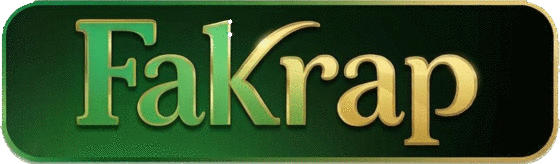
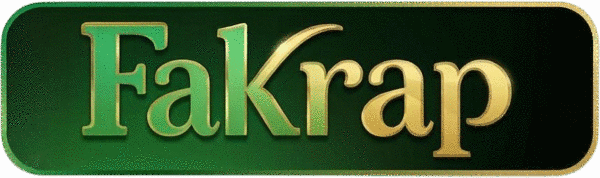
fix(brand): ровный логотип и возвращённое золотое CASINO на главной
- Новый логотип из присланного PNG с прозрачным фоном: аккуратные
  углы без обрезки, ничего не срезано по краям. Убрал border-radius,
  которым подгонял прошлую версию.
- На главной вместо «Домашнее казино» снова золотая надпись CASINO.
- Удалены стили .brand-tag, которые больше не нужны.

diff --git a/shared/casino.css b/shared/casino.css
@@ -124,8 +124,6 @@ button { font-family: inherit; cursor: pointer; }
   display: block;
   height: 42px;
   width: auto;
-  /* Скругляем по контуру плашки: так белые уголки исходника не видны. */
-  border-radius: 7.5px;
 }
 
 /* На узких экранах вместо широкого логотипа — золотая монета с «F». */
@@ -144,18 +142,6 @@ button { font-family: inherit; cursor: pointer; }
 }
 
 .brand-text { display: flex; flex-direction: column; gap: 2px; min-width: 0; }
-
-/* Подпись рядом с логотипом на главной — как вывеска над входом. */
-.brand-tag {
-  padding-left: 14px;
-  border-left: 1px solid rgba(233, 196, 106, .22);
-  font-size: 10px;
-  font-weight: 700;
-  letter-spacing: .26em;
-  text-transform: uppercase;
-  color: rgba(233, 196, 106, .5);
-  white-space: nowrap;
-}
 .brand-text span {
   font-family: Georgia, serif;
   font-size: clamp(15px, 1.5vw, 19px);
@@ -952,7 +938,6 @@ button.title-chip:hover { border-color: var(--gold); transform: translateY(-1px)
 
 @media (max-width: 900px) {
   .brand-text span { letter-spacing: .16em; font-size: 15px; }
-  .brand-tag { display: none; }
 }
 
 @media (max-width: 720px) {

diff --git a/games/blackjack/style.css b/games/blackjack/style.css
@@ -124,8 +124,6 @@ a.icon-btn:hover { color: #fff; border-color: rgba(233, 196, 106, .55); }
   display: block;
   height: 42px;
   width: auto;
-  /* Скругляем по контуру плашки: так белые уголки исходника не видны. */
-  border-radius: 7.5px;
 }
 
 /* На узких экранах вместо широкого логотипа — золотая монета с «F». */

diff --git a/index.html b/index.html
@@ -19,7 +19,9 @@
       <img class="brand-logo" src="shared/brand/fakrap.png" alt="Fakrap">
       <span class="brand-coin" aria-hidden="true">F</span>
     </a>
-    <span class="brand-tag">Домашнее казино</span>
+    <div class="brand-text">
+      <span>CASINO</span>
+    </div>
   </div>
 
   <div class="bankroll-box">
